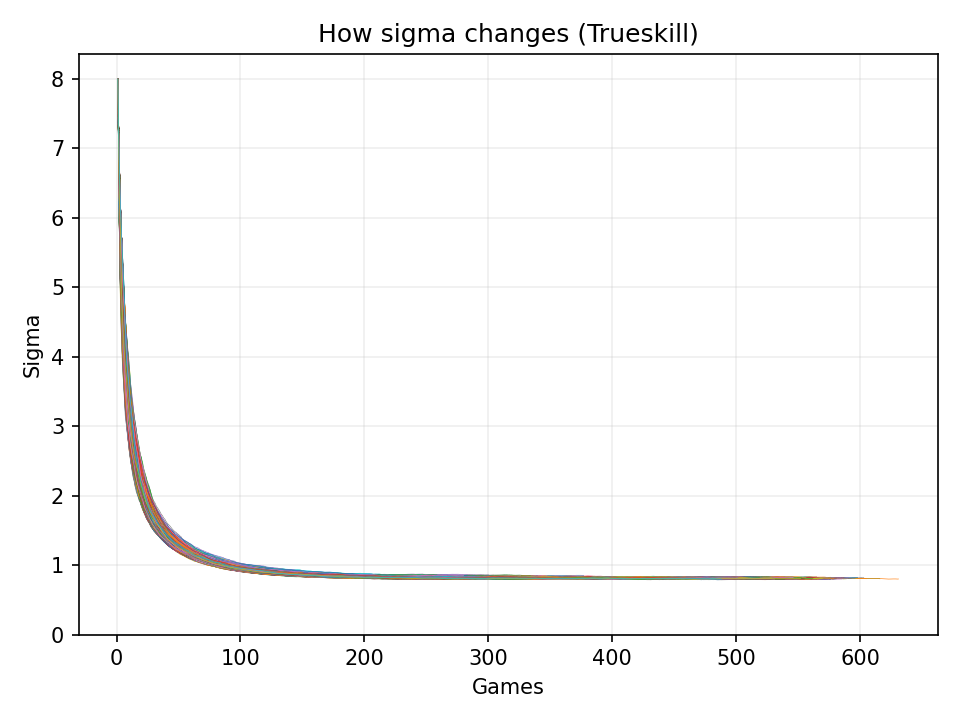
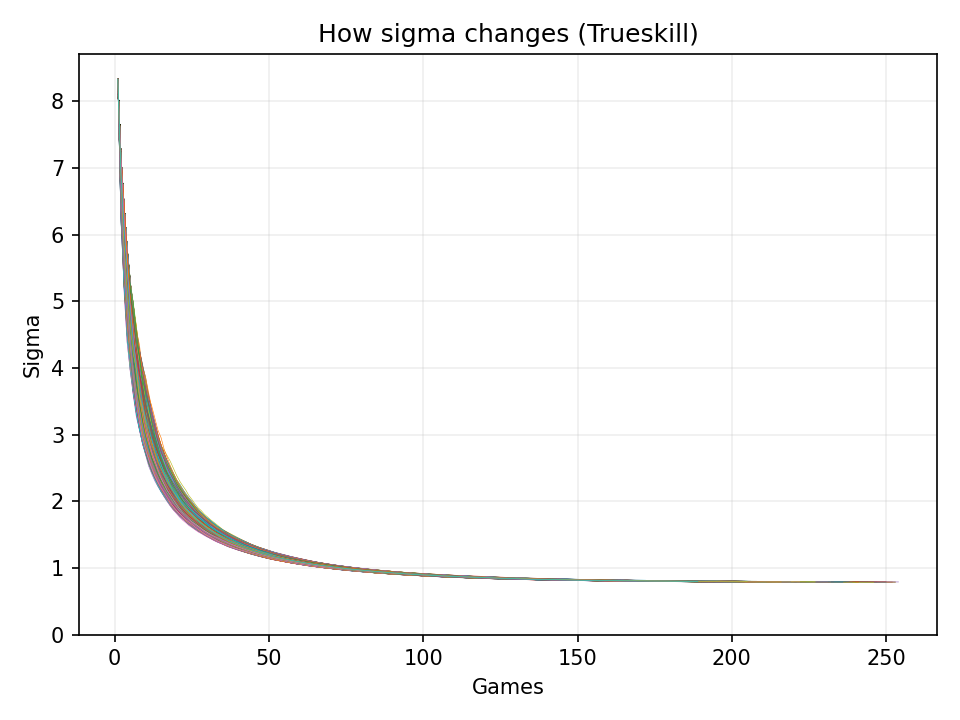
ts

diff --git a/cpp/strategies.h b/cpp/strategies.h
@@ -84,8 +84,8 @@ public:
 class Trueskill_strategy : public MatchmakingStrategy
 {
     const double MU = 25.;          //   25
-    const double SIGMA = 25 / 3;    //  ~ 8.333
-    const double BETA = SIGMA / 2;  //  ~ 4.166    # Variance of performance
+    const double SIGMA = 25. / 3;    //  ~ 8.333
+    const double BETA = 27. / 6;  //  ~ 4.166    # Variance of performance
     const double TAU = SIGMA / 100; //  ~ 0.083    # Dynamic variance
 
 public:
@@ -111,7 +111,7 @@ public:
     bool good_match(Player &p1, Player &p2)
     {
         // 0.40 since default settings lead to 0.4472 quality
-        return match_quality(p1, p2) > 0.40;
+        return match_quality(p1, p2) > 0.40 && std::abs(winning_chance(p1, p2) - 0.5) < 0.17;
     }
 
     // Calculates normal distribution at point

diff --git a/compare_strategies.py b/compare_strategies.py
@@ -12,7 +12,7 @@ from trueskill_rate import Stats
 
 ### RUN SIMULATION
 PLAYERS = 20000
-GAMES = 5000000
+GAMES = 2000000
 
 strategy_types = ["naive", "elo", "tweaked_elo", "tweaked2_elo", "trueskill"]
 psimulation.set_my_python_function(trueskill_rate.rate_1v1)
@@ -73,6 +73,7 @@ ax[3].set_title(f"The fraction of good matches")
 ax[3].set_xlabel("Games")
 ax[3].set_ylabel("Fraction of good matches")
 ax[3].set_ylim((0, 1.1))
+ax[3].grid(alpha=0.2)
 ax[3].legend()
 
 ax[2].set_ylim(np.min(skills) * 1.1 - 200, np.max(skills) * 1.1 + 200)

diff --git a/cpp/simulation.cpp b/cpp/simulation.cpp
@@ -88,7 +88,7 @@ void Simulation::play_games(int number)
     {
         // Pick a random player
         player = m_RNG() % players_num;
-        if (games_played % 1000 == 0)
+        if (games_played % 100 == 0)
             calculate_good_match_fraction(players[player], players_num);
 
         // Pick a random opponent

diff --git a/cpp/main.cpp b/cpp/main.cpp
@@ -32,7 +32,7 @@ Simulation run_sim(int players, int iterations, int sp1, int sp2, int sp3, doubl
     if (strategy_type == "trueskill")
     {
         sim.m_force_player_mmr = 25.0;
-        sim.m_force_player_sigma = 25 / 3;
+        sim.m_force_player_sigma = 25. / 3;
     }
 
     if (gradual)
